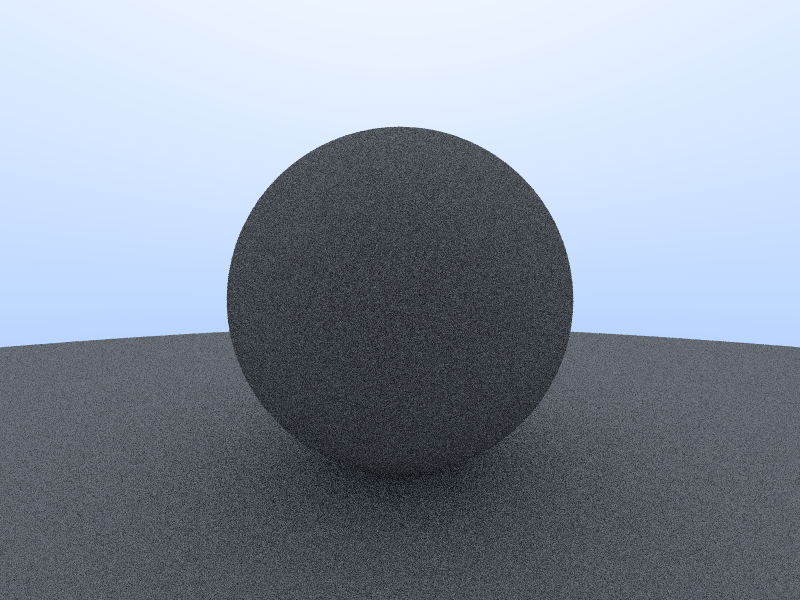
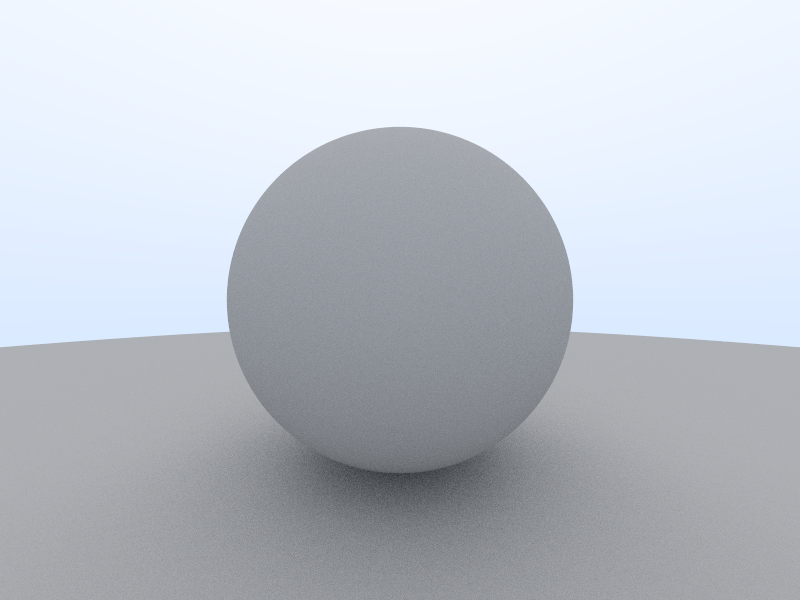
Gamma correction + other minor improvements

diff --git a/src/main.rs b/src/main.rs
@@ -4,29 +4,7 @@ use indicatif::{ProgressBar, ProgressState, ProgressStyle};
 use rand::prelude::*;
 use image::ImageBuffer;
 use pt::geometries::{Intersection, Object, Ray, Sphere};
-
-// Generating a random vector on a hemisphere using the rejection method
-fn random_hemisphere_vector(normal: DVec3) -> DVec3 {
-  let mut rng = rand::rng();
-  let on_unit_sphere: DVec3;
-  loop {
-    let x: f64 = rng.random_range(-1.0..1.0);
-    let y: f64 = rng.random_range(-1.0..1.0);
-    let z: f64 = rng.random_range(-1.0..1.0);
-
-    let vector: DVec3 = DVec3::new(x, y, z);
-
-    // If the point is inside the unit sphere, accept it
-    if vector.length_squared() <= 1.0 {
-      on_unit_sphere = vector.normalize(); // Return the normalized unit vector
-      break;
-    }
-  }
-  if on_unit_sphere.dot(normal) > 0.0 {
-    return on_unit_sphere;
-  }
-  -on_unit_sphere
-}
+use pt::materials;
 
 // Get the color illuminated by a particular ray given a scene
 fn intersects_world(objects: &Vec<Box<dyn Object>>, ray: &Ray, depth: i32) -> DVec3 {
@@ -38,7 +16,7 @@ fn intersects_world(objects: &Vec<Box<dyn Object>>, ray: &Ray, depth: i32) -> DV
   let mut closest_distance: f64 = f64::MAX;
 
   for obj in objects.iter() {
-    if let Some(intersection) = obj.intersects(ray, 0.0, closest_distance) {
+    if let Some(intersection) = obj.intersects(ray, 0.001, closest_distance) {
       closest_distance = intersection.t;
       closest_intersection = Some(intersection);
     }
@@ -47,7 +25,8 @@ fn intersects_world(objects: &Vec<Box<dyn Object>>, ray: &Ray, depth: i32) -> DV
   let mut color: DVec3 = DVec3::new(0.0, 0.0, 0.0);
   if closest_intersection.is_some() {
     let intersection: Intersection = closest_intersection.unwrap();
-    let direction: DVec3 = random_hemisphere_vector(intersection.normal);
+    // let direction: DVec3 = materials::random_hemisphere_vector(intersection.normal);
+    let direction: DVec3 = intersection.normal + materials::random_unit_vector();
     color += 0.5 * (intersects_world(objects, &Ray::new(intersection.location, direction), depth-1));
   } else {
     let a: f64 = 0.5 * (ray.direction.normalize().y + 1.0);
@@ -86,7 +65,7 @@ fn main() {
     + 0.5 * (delta_u + delta_v);
 
   // Set-up rendering settings
-  let samples: i32 = 10;
+  let samples: i32 = 100;
   let max_bounces: i32 = 50;
 
   // Write an image
@@ -118,10 +97,10 @@ fn main() {
       }
       color *= 1.0 / samples as f64;
 
-      // Write pixel to image (scale 0-1 to 0-255)
-      let r: u8 = (255.99 * color.x).clamp(0.0, 255.0) as u8;
-      let g: u8 = (255.99 * color.y).clamp(0.0, 255.0) as u8;
-      let b: u8 = (255.99 * color.z).clamp(0.0, 255.0) as u8;
+      // Write pixel to image (scale 0-1 to 0-255 and convert to linear to gamma 2)
+      let r: u8 = (255.99 * (color.x).sqrt()).clamp(0.0, 255.0) as u8;
+      let g: u8 = (255.99 * (color.y).sqrt()).clamp(0.0, 255.0) as u8;
+      let b: u8 = (255.99 * (color.z).sqrt()).clamp(0.0, 255.0) as u8;
 
       let pixel = buffer.get_pixel_mut(x, y);
       *pixel = image::Rgb([r, g, b]);

diff --git a/src/materials.rs b/src/materials.rs
@@ -1,0 +1,30 @@
+use rand::prelude::*;
+use glam::DVec3;
+
+pub fn random_unit_vector() -> DVec3 {
+  let mut rng = rand::rng();
+  let x: f64 = rng.random_range(-1.0..1.0);
+  let y: f64 = rng.random_range(-1.0..1.0);
+  let z: f64 = rng.random_range(-1.0..1.0);
+  
+  DVec3::new(x, y, z)
+}
+
+// Generating a random vector on a hemisphere using the rejection method
+pub fn random_hemisphere_vector(normal: DVec3) -> DVec3 {
+  
+  let on_unit_sphere: DVec3;
+  loop {
+    let vector: DVec3 = random_unit_vector();
+
+    // If the point is inside the unit sphere, accept it
+    if vector.length_squared() <= 1.0 {
+      on_unit_sphere = vector.normalize(); // Return the normalized unit vector
+      break;
+    }
+  }
+  if on_unit_sphere.dot(normal) > 0.0 {
+    return on_unit_sphere;
+  }
+  -on_unit_sphere
+}

diff --git a/src/lib.rs b/src/lib.rs
@@ -1,1 +1,2 @@
 pub mod geometries;
+pub mod materials;
